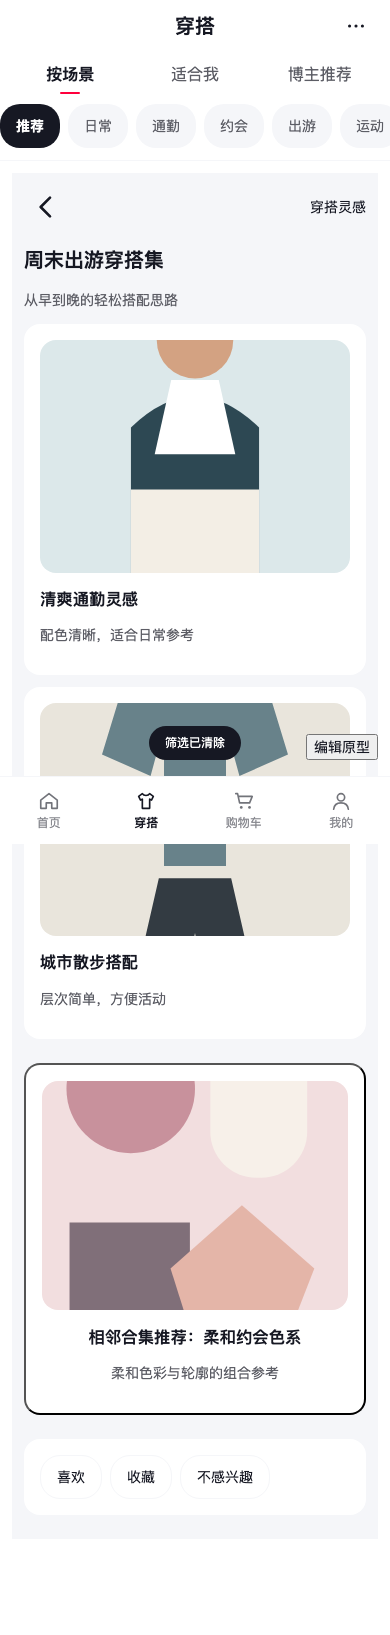
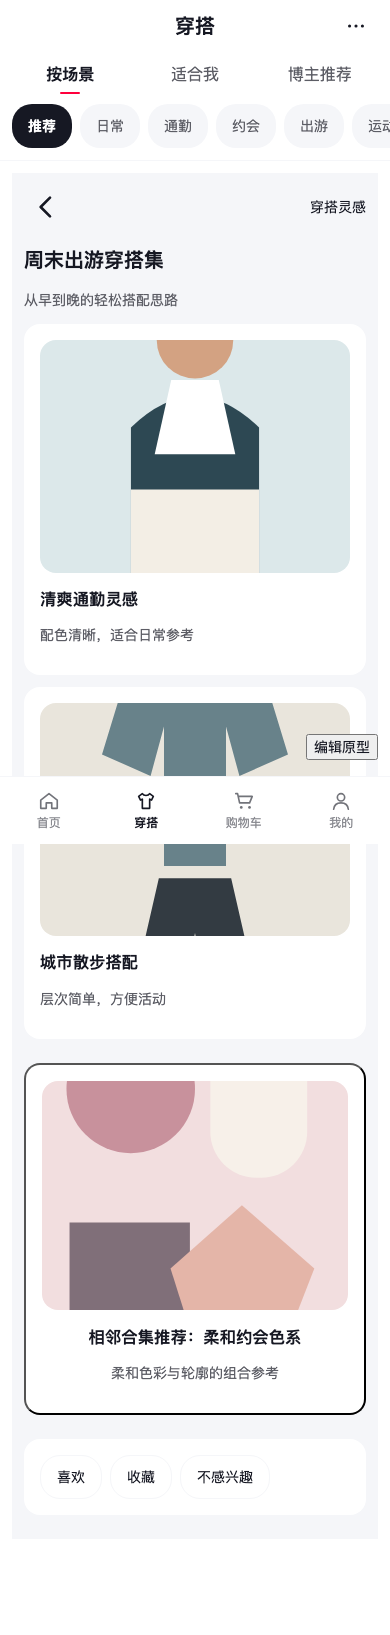
test: stabilize outfit browser evidence

diff --git a/work/douyin-outfit-content-feed/demo-summary.md b/work/douyin-outfit-content-feed/demo-summary.md
@@ -14,6 +14,8 @@
 
 浏览器验收：使用仓库外的 bundled Playwright，从 `index.html` 入口 UI 在 390×844 与 320×700 两个视口分别独立执行完整交互套件。最终结果为 `114 browser checks passed`、退出码 0；两个视口均验证 `#status` 隐藏、计算样式为 `display:none` 且布局高度为 0。每个视口都覆盖三个频道及其全部筛选、三类卡片详情与返回上下文、喜欢/收藏/关注/不感兴趣/撤销、状态菜单的加载/空/失败/图片失败/正常及清除筛选和重试、按卡片类型保持图片失败占比、编辑标题/应用/撤销/预览隐藏且 inert、快速切换 latest-wins、加载中打开详情不被覆盖，以及横向溢出、固定栏空间、图片 natural dimensions、页面错误和控制台错误。
 
+证据稳定性：截图前重新载入标准首页状态，等待 ready 内容、toast 脱离 DOM、目标视图可见、连续两帧布局稳定，并滚动到标准顶部位置。完整脚本连续执行两次均为 114/114 通过，第二次生成的四张 PNG 与第一次逐字节相同：`detail-320x700 d204e6c8…`、`detail-390x844 2049e84e…`、`feed-320x700 7bc9e9d0…`、`feed-390x844 2c9f25ee…`；截图中无残留“筛选已清除”提示。Playwright 由 `CODEX_NODE_MODULES`、`NODE_PATH` 或当前用户的 bundled runtime 路径发现，不依赖固定账号目录。
+
 Task 1–5 自动测试：`node --test qa/outfit-content-feed-state.test.mjs qa/outfit-content-feed-contract.test.mjs`，31/31 通过，0 失败，退出码 0。
 
 已安装 Skill 门禁（`/Users/bytedance/.codex/skills/prd-to-editable-demo`）：
